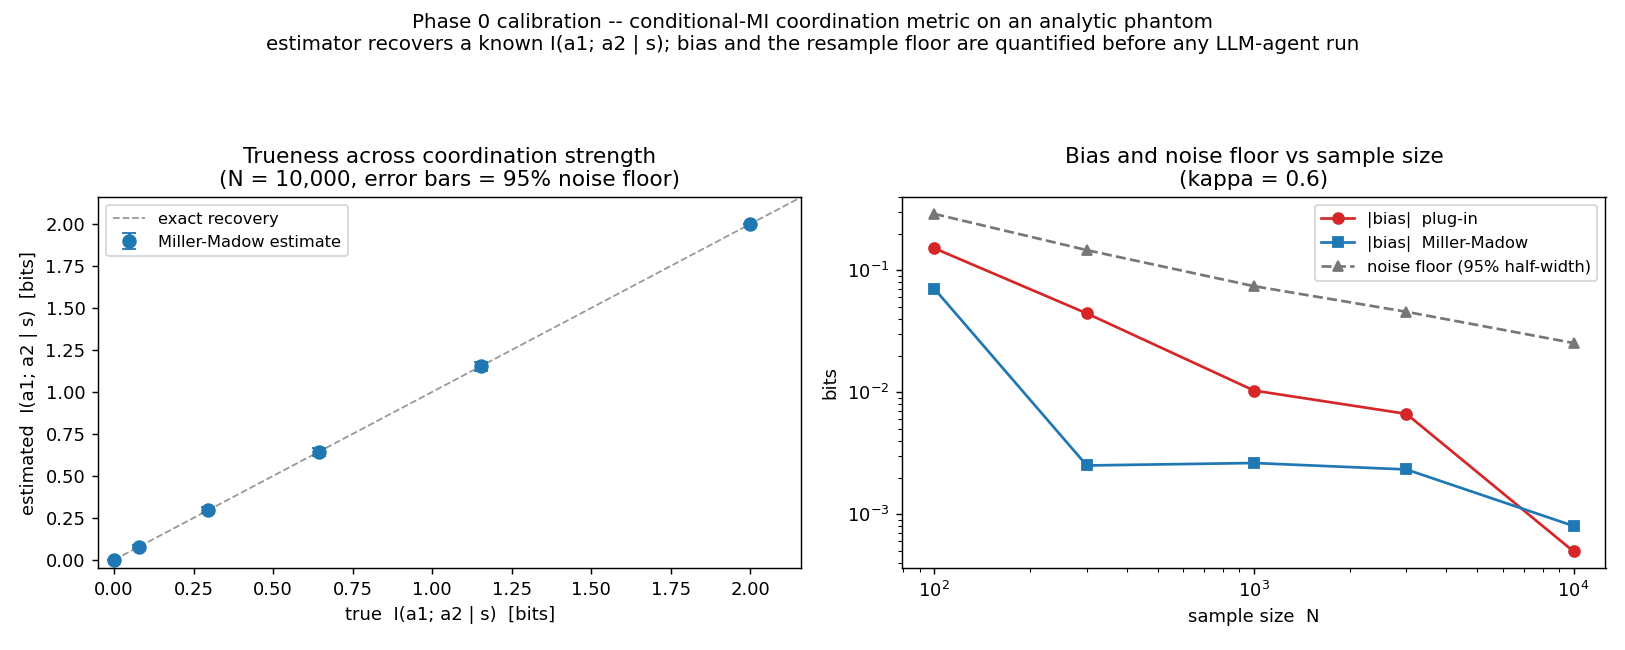
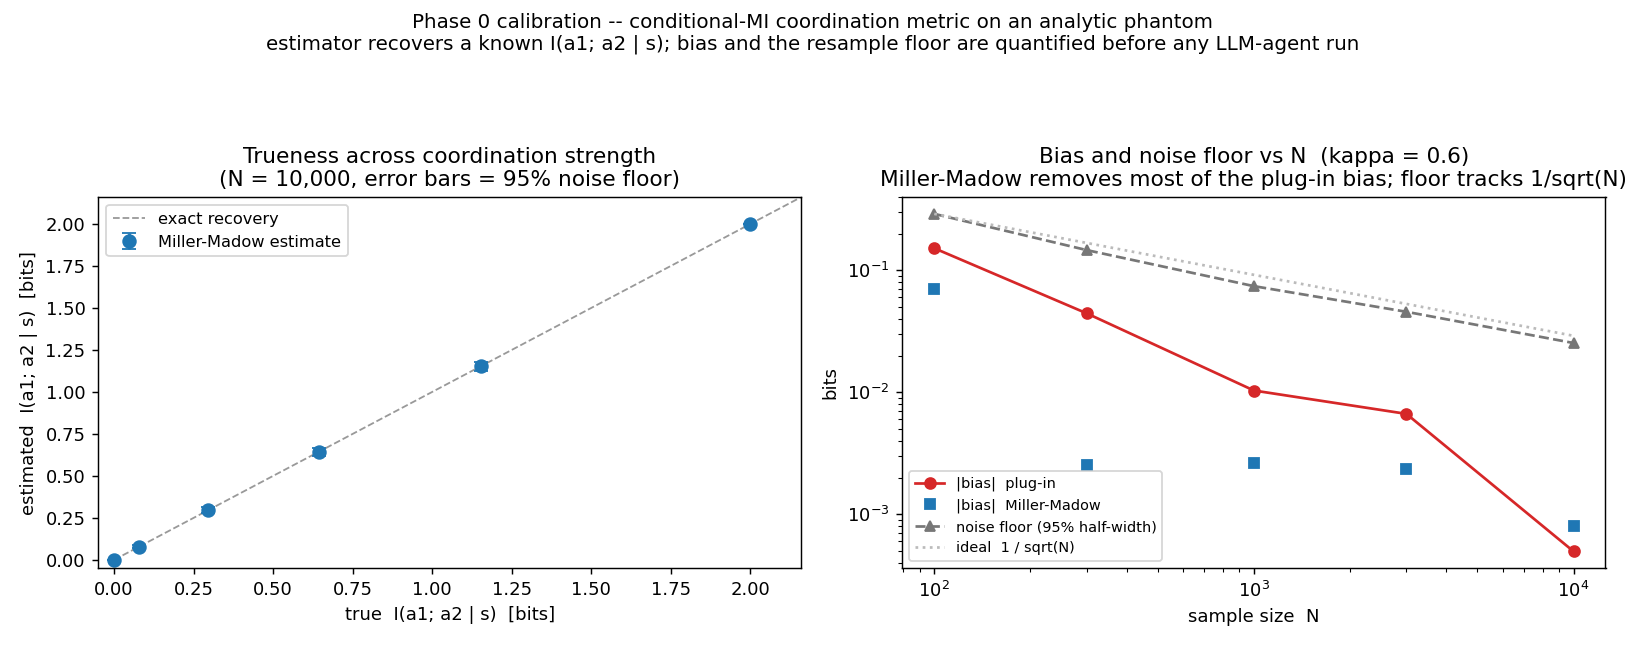
phase0: expert-grade calibration figures (ideal-rate reference; clean bias)
- add a 1/sqrt(N) reference line to each precision (floor-vs-budget) panel: it
  shows the estimator's noise floor achieves the statistically-efficient rate,
  which the floors track almost exactly across the 100x budget range
- stop drawing the near-zero |bias| as a line on a log axis (it only traced
  Monte-Carlo scatter): dropped from fragility/propagation (bias is in the
  trueness panel + CSV), kept as markers for coordination where the
  plug-in vs Miller-Madow comparison is the actual result
- README: add a "Reading the figures" guide (trueness / precision / how the
  floor sets the smallest resolvable effect)
- shorten right-panel titles to avoid edge clipping; regenerate all three figures

diff --git a/phase0/calibrate.py b/phase0/calibrate.py
@@ -130,20 +130,25 @@ def plot(records: list[dict], path: Path) -> None:
     ax_true.set_ylim(-0.05, lim)
     ax_true.legend(loc="best", fontsize=9)
 
-    # Right: bias vs sample size, plug-in vs corrected, with the floor.
-    ns = [r["n"] for r in at_kappa]
+    # Right: bias (plug-in vs corrected) and the floor vs N, against the ideal rate.
+    # Miller-Madow bias is plotted as markers, not a line -- it is near zero, so a
+    # line would only trace Monte-Carlo scatter on the log axis.
+    ns = np.array([r["n"] for r in at_kappa])
+    floors = np.array([r["floor"] for r in at_kappa])
     ax_bias.plot(ns, [abs(r["plugin_bias"]) for r in at_kappa], "o-", color="#d62728",
                  label="|bias|  plug-in")
-    ax_bias.plot(ns, [abs(r["mm_bias"]) for r in at_kappa], "s-", color="#1f77b4",
+    ax_bias.plot(ns, [abs(r["mm_bias"]) for r in at_kappa], "s", color="#1f77b4", ms=6,
                  label="|bias|  Miller-Madow")
-    ax_bias.plot(ns, [r["floor"] for r in at_kappa], "^--", color="#777777",
-                 label="noise floor (95% half-width)")
+    ax_bias.plot(ns, floors, "^--", color="#777777", label="noise floor (95% half-width)")
+    ax_bias.plot(ns, floors[0] * np.sqrt(ns[0] / ns), ":", color="#bbbbbb", lw=1.5,
+                 label="ideal  1 / sqrt(N)")
     ax_bias.set_xscale("log")
     ax_bias.set_yscale("log")
     ax_bias.set_xlabel("sample size  N")
     ax_bias.set_ylabel("bits")
-    ax_bias.set_title(f"Bias and noise floor vs sample size\n(kappa = {REPORT_KAPPA})")
-    ax_bias.legend(loc="best", fontsize=9)
+    ax_bias.set_title("Bias and noise floor vs N  "
+                      f"(kappa = {REPORT_KAPPA})\nMiller-Madow removes most of the plug-in bias; floor tracks 1/sqrt(N)")
+    ax_bias.legend(loc="best", fontsize=8)
 
     fig.suptitle(
         "Phase 0 calibration -- conditional-MI coordination metric on an analytic phantom\n"

diff --git a/phase0/calibrate_fragility.py b/phase0/calibrate_fragility.py
@@ -124,19 +124,24 @@ def plot(records: list[dict], path: Path) -> None:
     ax_true.set_xlim(-lim, lim)
     ax_true.legend(loc="best", fontsize=9)
 
-    budgets = [r["budget"] for r in at_kappa]
-    ax_floor.plot(budgets, [r["floor"] for r in at_kappa], "^--", color="#777777",
-                  label="noise floor (95% half-width)")
-    ax_floor.plot(budgets, [abs(r["bias"]) for r in at_kappa], "s-", color="#1f77b4",
-                  label="|bias|")
+    # Floor vs budget against the ideal 1/sqrt rate; the signal line shows where a
+    # fragility of this size sits, so the sign is callable where the floor dips below it.
+    # (Bias is near zero -- shown in the trueness panel and the CSV -- so it is not
+    # plotted here, where on a log axis it would only trace Monte-Carlo scatter.)
+    budgets = np.array([r["budget"] for r in at_kappa])
+    floors = np.array([r["floor"] for r in at_kappa])
+    ax_floor.plot(budgets, floors, "^--", color="#777777", label="noise floor (95% half-width)")
+    ax_floor.plot(budgets, floors[0] * np.sqrt(budgets[0] / budgets), ":", color="#bbbbbb",
+                  lw=1.5, label="ideal  1 / sqrt(budget)")
     ax_floor.axhline(abs(REPORT_KAPPA), color="#d62728", lw=1.2, ls=":",
                      label=f"|kappa| = {abs(REPORT_KAPPA)} (signal)")
     ax_floor.set_xscale("log")
     ax_floor.set_yscale("log")
     ax_floor.set_xlabel("rollout budget  (stress levels x replicates)")
     ax_floor.set_ylabel("curvature units")
-    ax_floor.set_title(f"Floor vs budget: when the sign becomes callable\n(kappa = {REPORT_KAPPA})")
-    ax_floor.legend(loc="best", fontsize=9)
+    ax_floor.set_title(f"Noise floor vs rollout budget  (kappa = {REPORT_KAPPA})"
+                       "\nfloor tracks 1/sqrt(budget); sign callable where it dips below |kappa|")
+    ax_floor.legend(loc="best", fontsize=8)
 
     fig.suptitle(
         "Phase 0 calibration -- fragility (response-curvature) metric on an analytic phantom\n"

diff --git a/phase0/calibrate_propagation.py b/phase0/calibrate_propagation.py
@@ -120,19 +120,24 @@ def plot(records: list[dict], path: Path) -> None:
     ax_true.set_ylim(-0.05, lim)
     ax_true.legend(loc="best", fontsize=9)
 
-    budgets = [r["budget"] for r in at_beta]
-    ax_floor.plot(budgets, [r["floor"] for r in at_beta], "^--", color="#777777",
-                  label="noise floor (95% half-width)")
-    ax_floor.plot(budgets, [abs(r["bias"]) for r in at_beta], "s-", color="#1f77b4",
-                  label="|bias|")
+    # Floor vs budget against the ideal 1/sqrt rate; the signal line shows where a
+    # contagion of this size sits, so it is detectable where the floor dips below it.
+    # (Bias is near zero -- shown in the trueness panel and the CSV -- so it is not
+    # plotted here, where on a log axis it would only trace Monte-Carlo scatter.)
+    budgets = np.array([r["budget"] for r in at_beta])
+    floors = np.array([r["floor"] for r in at_beta])
+    ax_floor.plot(budgets, floors, "^--", color="#777777", label="noise floor (95% half-width)")
+    ax_floor.plot(budgets, floors[0] * np.sqrt(budgets[0] / budgets), ":", color="#bbbbbb",
+                  lw=1.5, label="ideal  1 / sqrt(budget)")
     ax_floor.axhline(REPORT_BETA, color="#d62728", lw=1.2, ls=":",
                      label=f"beta = {REPORT_BETA} (signal)")
     ax_floor.set_xscale("log")
     ax_floor.set_yscale("log")
     ax_floor.set_xlabel("dose-sweep budget  (doses x targets x replicates)")
     ax_floor.set_ylabel("propagation units")
-    ax_floor.set_title(f"Floor vs budget: when faint contagion is detectable\n(beta = {REPORT_BETA})")
-    ax_floor.legend(loc="best", fontsize=9)
+    ax_floor.set_title(f"Noise floor vs dose-sweep budget  (beta = {REPORT_BETA})"
+                       "\nfloor tracks 1/sqrt(budget); detectable where it dips below beta")
+    ax_floor.legend(loc="best", fontsize=8)
 
     fig.suptitle(
         "Phase 0 calibration -- misalignment-propagation (contagion) metric on an analytic phantom\n"

diff --git a/phase0/README.md b/phase0/README.md
@@ -19,6 +19,19 @@ All three battery metrics are calibrated here.
   result; with the floor printed, a later "this metric doesn't travel" cannot be
   confused with "we estimated it badly".
 
+## Reading the figures
+
+Each metric gets two panels.
+
+- **Left — trueness.** The estimate vs the known value across the metric's range.
+  Points on the dashed identity line, within their error bars (the 95% noise floor),
+  mean the estimator is unbiased.
+- **Right — precision.** The noise floor vs sample size / budget, log-log. A
+  statistically efficient estimator's floor falls as **1/√N** (the dotted reference
+  line); the floor at a given budget is the smallest effect that budget can resolve, so
+  to detect an effect of size X you need the budget where the floor drops below X. Bias,
+  where shown, sits far below the floor — it is reported in the left panel and the CSV.
+
 ## Coordination — conditional mutual information `I(a1; a2 | s)`
 
 High when two agents coordinate within a context `s`, zero when independent. The